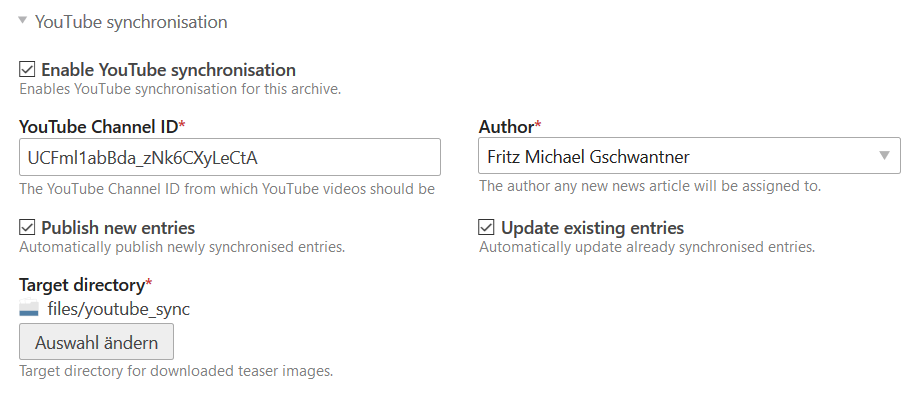
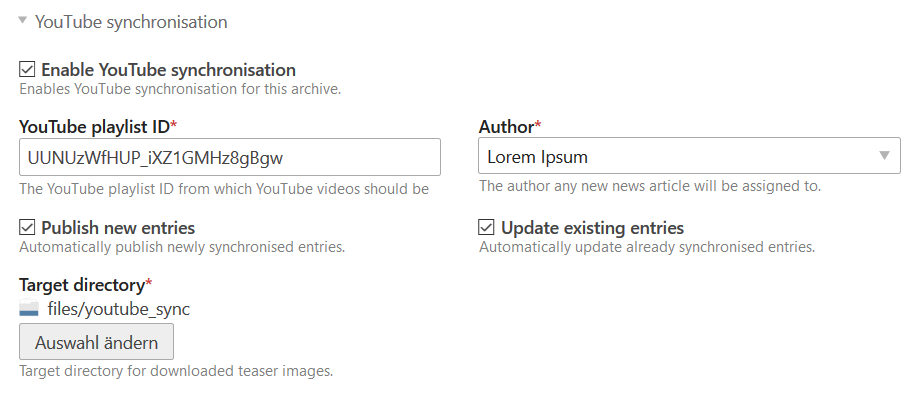
sync playlist instead of channel

Changed region(s): [[0.1219, 0.438, 0.4875, 0.4964], [0.0305, 0.292, 0.3047, 0.4088], [0.518, 0.3504, 0.7617, 0.4088]]

diff --git a/src/Sync/NewsYouTubeSync.php b/src/Sync/NewsYouTubeSync.php
@@ -47,7 +47,7 @@ class NewsYouTubeSync
 
         $enabledNewsArchives = NewsArchiveModel::findBy([
             'enable_youtube_sync = 1',
-            "youtube_channel_id != ''",
+            "youtube_playlist_id != ''",
         ], []);
 
         if (null === $enabledNewsArchives) {
@@ -62,27 +62,8 @@ class NewsYouTubeSync
 
     private function syncNewsArchive(NewsArchiveModel $newsArchive): void
     {
-        $response = $this->youtube->channels->listChannels('snippet,contentDetails', [
-            'id' => $newsArchive->youtube_channel_id,
-        ]);
-
-        $channels = $response->getItems();
-
-        if (empty($channels)) {
-            return;
-        }
-
-        /** @var \Google_Service_YouTube_Channel $channel */
-        $channel = reset($channels);
-
-        $uploadsPlaylist = $channel
-            ->getContentDetails()
-            ->getRelatedPlaylists()
-            ->getUploads()
-        ;
-
         $params = [
-            'playlistId' => $uploadsPlaylist,
+            'playlistId' => $newsArchive->youtube_playlist_id,
             'maxResults' => 50,
         ];
 

diff --git a/src/Resources/contao/languages/en/tl_news_archive.php b/src/Resources/contao/languages/en/tl_news_archive.php
@@ -12,7 +12,7 @@ declare(strict_types=1);
 
 $GLOBALS['TL_LANG']['tl_news_archive']['youtube_sync_legend'] = 'YouTube synchronisation';
 $GLOBALS['TL_LANG']['tl_news_archive']['enable_youtube_sync'] = ['Enable YouTube synchronisation', 'Enables YouTube synchronisation for this archive.'];
-$GLOBALS['TL_LANG']['tl_news_archive']['youtube_channel_id'] = ['YouTube Channel ID', 'The YouTube Channel ID from which YouTube videos should be fetched as news articles.'];
+$GLOBALS['TL_LANG']['tl_news_archive']['youtube_playlist_id'] = ['YouTube playlist ID', 'The YouTube playlist ID from which YouTube videos should be fetched as news articles.'];
 $GLOBALS['TL_LANG']['tl_news_archive']['youtube_sync_author'] = ['Author', 'The author any new news article will be assigned to.'];
 $GLOBALS['TL_LANG']['tl_news_archive']['youtube_sync_publish'] = ['Publish new entries', 'Automatically publish newly synchronised entries.'];
 $GLOBALS['TL_LANG']['tl_news_archive']['youtube_sync_update'] = ['Update existing entries', 'Automatically update already synchronised entries.'];

diff --git a/src/Resources/contao/dca/tl_news_archive.php b/src/Resources/contao/dca/tl_news_archive.php
@@ -27,7 +27,7 @@ $GLOBALS['TL_DCA']['tl_news_archive']['fields']['enable_youtube_sync'] = [
     'sql' => ['type' => 'boolean', 'default' => 0],
 ];
 
-$GLOBALS['TL_DCA']['tl_news_archive']['fields']['youtube_channel_id'] = [
+$GLOBALS['TL_DCA']['tl_news_archive']['fields']['youtube_playlist_id'] = [
     'inputType' => 'text',
     'exclude' => true,
     'eval' => ['maxlength' => 64, 'tl_class' => 'w50', 'mandatory' => true],
@@ -71,4 +71,4 @@ PaletteManipulator::create()
 ;
 
 $GLOBALS['TL_DCA']['tl_news_archive']['palettes']['__selector__'][] = 'enable_youtube_sync';
-$GLOBALS['TL_DCA']['tl_news_archive']['subpalettes']['enable_youtube_sync'] = 'youtube_channel_id,youtube_sync_author,youtube_sync_publish,youtube_sync_update,youtube_sync_dir';
+$GLOBALS['TL_DCA']['tl_news_archive']['subpalettes']['enable_youtube_sync'] = 'youtube_playlist_id,youtube_sync_author,youtube_sync_publish,youtube_sync_update,youtube_sync_dir';

diff --git a/README.md b/README.md
@@ -5,7 +5,7 @@
 Contao YouTube Sync
 ===================
 
-This extension allows you to automatically import all uploaded videos of a YouTube channels as news entries in Contao.
+This extension allows you to automatically import all uploaded videos of a YouTube playlist as news entries in Contao.
 
 ## Configuration
 
@@ -29,7 +29,7 @@ Once this extension is installed, you will have additional options in the settin
 
 <img src="https://raw.githubusercontent.com/inspiredminds/contao-youtube-sync/master/screenshot.png" width="735" alt="YouTube synchronisation settings">
 
-Enable the synchronisation and set the YouTube channel ID from which to import videos as news entries. You also need to define a default author for the synchronised entries and a target directory for the downloaded thumbnail images. Optionally you can define whether new entries should be published by default or not and if already synchronised entries should always be updated (this will not update the alias or author).
+Enable the synchronisation and set the YouTube playlist ID from which to import videos as news entries. You also need to define a default author for the synchronised entries and a target directory for the downloaded thumbnail images. Optionally you can define whether new entries should be published by default or not and if already synchronised entries should always be updated (this will not update the alias or author).
 
 ## Synchronisation
 
@@ -53,7 +53,7 @@ This event lets you retrieve the `\Contao\NewsModel` to be saved to the database
 
 There will be two additional variables available within a news template:
 
-* `$this->youtube_id`: This will contain the video ID of the YouTube video, if the news article was imported from a YouTube channel.
+* `$this->youtube_id`: This will contain the video ID of the YouTube video, if the news article was imported from a YouTube playlist.
 * `$this->youtube_data`: This is an object containing the original data of the video from the Google YouTube API.
 
 The extension also provides a basic `news_youtube` template, which can be used instead of the `news_full` template for the newsreader of YouTube videos. The template contains markup to show the YouTube video embedded in an iframe.
